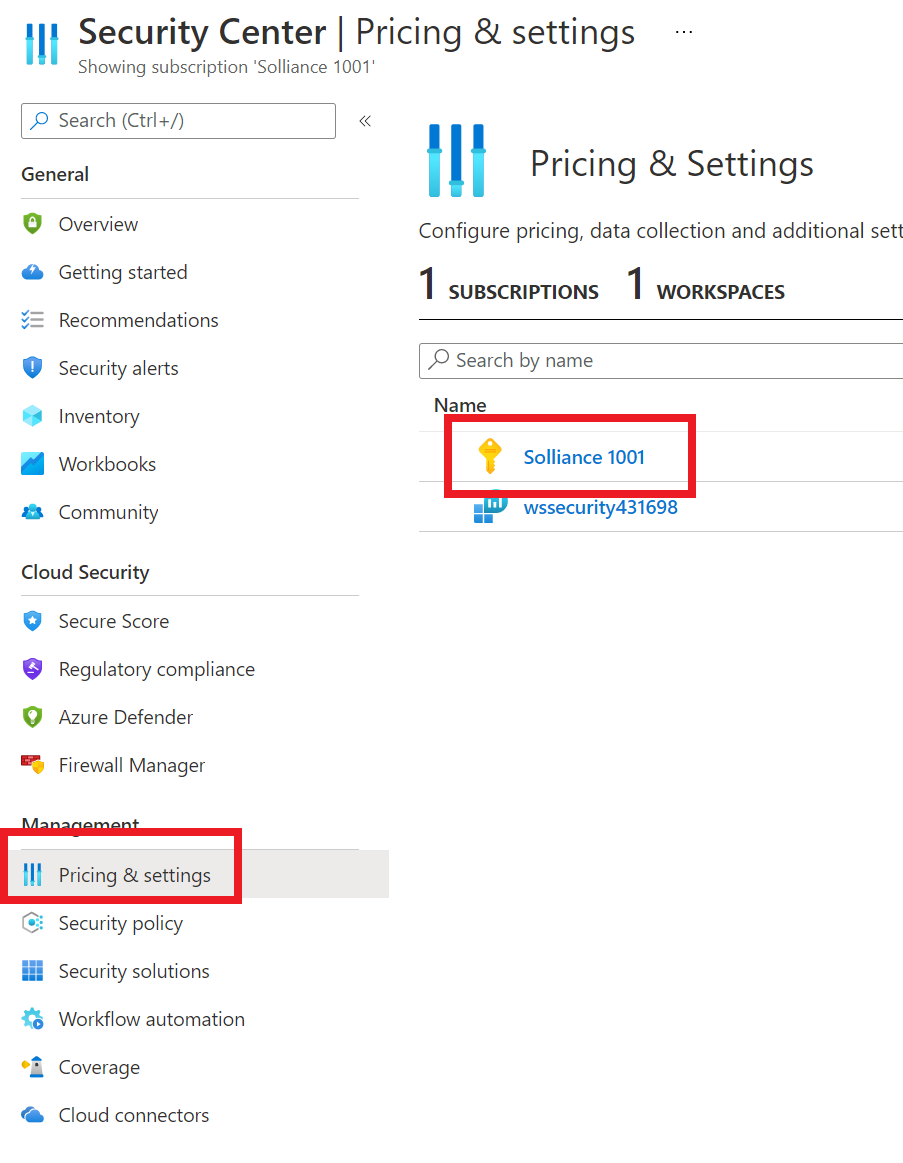
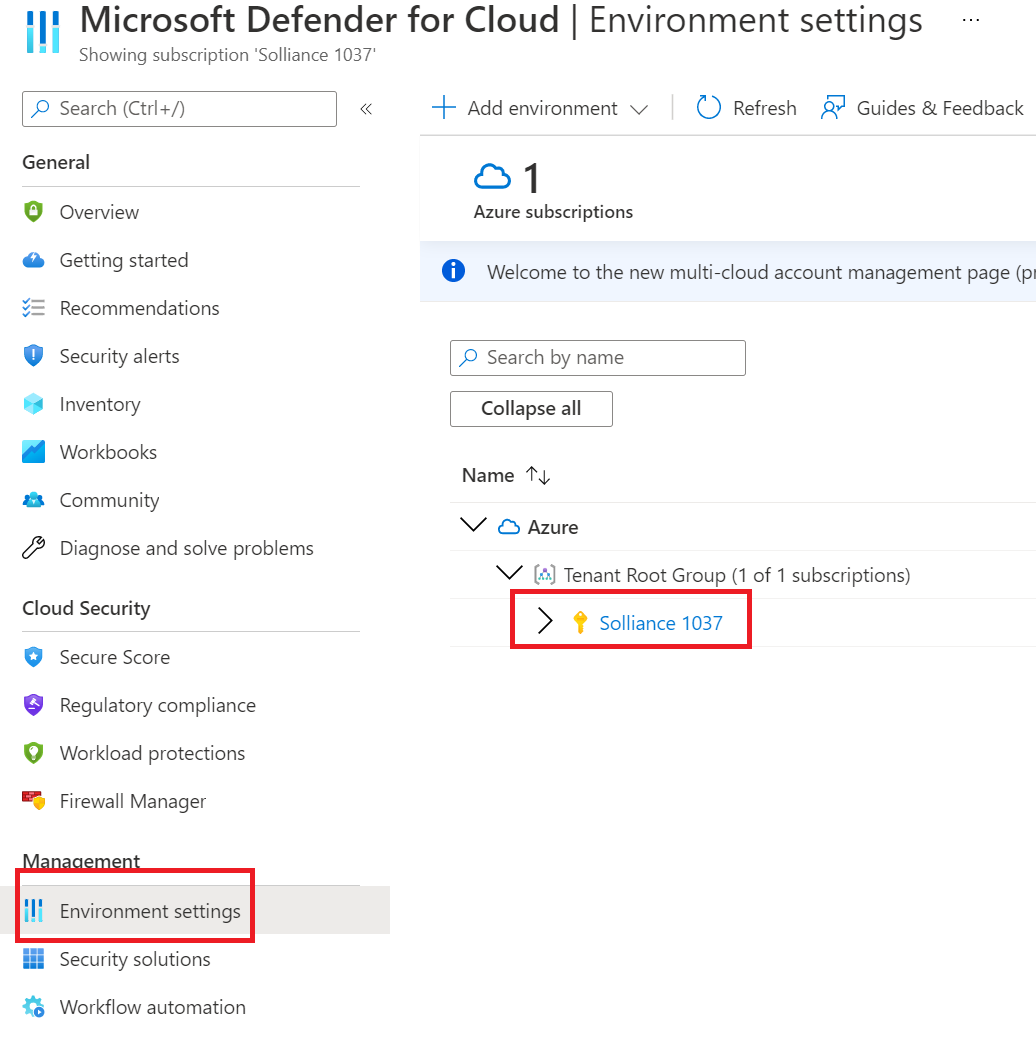
small updates.

diff --git a/day-01/lab01-azure-defender-advanced.md b/day-01/lab01-azure-defender-advanced.md
@@ -307,6 +307,9 @@ You can review the adaptive network hardening recommendations via the Azure Reso
 You can gain access to the data in the network map through the Azure Management REST endpoints.
 
 1. Login to the **wssecuritySUFFIX-win10** virtual machine.
+
+    > **NOTE** You will need to enable access via JIT
+
 2. Open a PowerShell ISE window.
 3. Copy into the window and run the following PowerShell script:
 
@@ -315,7 +318,7 @@ You can gain access to the data in the network map through the Azure Management 
 
     Login-AzureCredsPowerShell
 
-    $azToken = Get-AzAccessToken -ResourceUrl "https://api.loganalytics.io";
+    $azToken = Get-AzAccessToken -ResourceUrl "https://management.azure.com";
 
     $global:managementToken = $azToken.Token;
 
@@ -332,7 +335,7 @@ You can gain access to the data in the network map through the Azure Management 
 
     $result = Invoke-RestMethod  -Uri $url -Method Get -ContentType "application/json" -Headers @{"Authorization"="Bearer $managementToken"};
 
-    $result;
+    $result.value;
     ```
 
 4. Review the results in the output.
@@ -341,9 +344,9 @@ You can gain access to the data in the network map through the Azure Management 
 
 ### Task 1: Enable Continuous Export
 
-1. Browse to Azure Microsoft Defender for Cloud
-2. Under **Management**, select **Pricing and settings**
-3. Select the lab subscription
+1. Browse to Microsoft Defender for Cloud
+2. Under **Management**, select **Environment settings**
+3. Expand the management group, select the lab subscription
 
     ![Pricing and settings.](./media/pricing_settings_subscription.png "Pricing and settings is displayed.")
 
